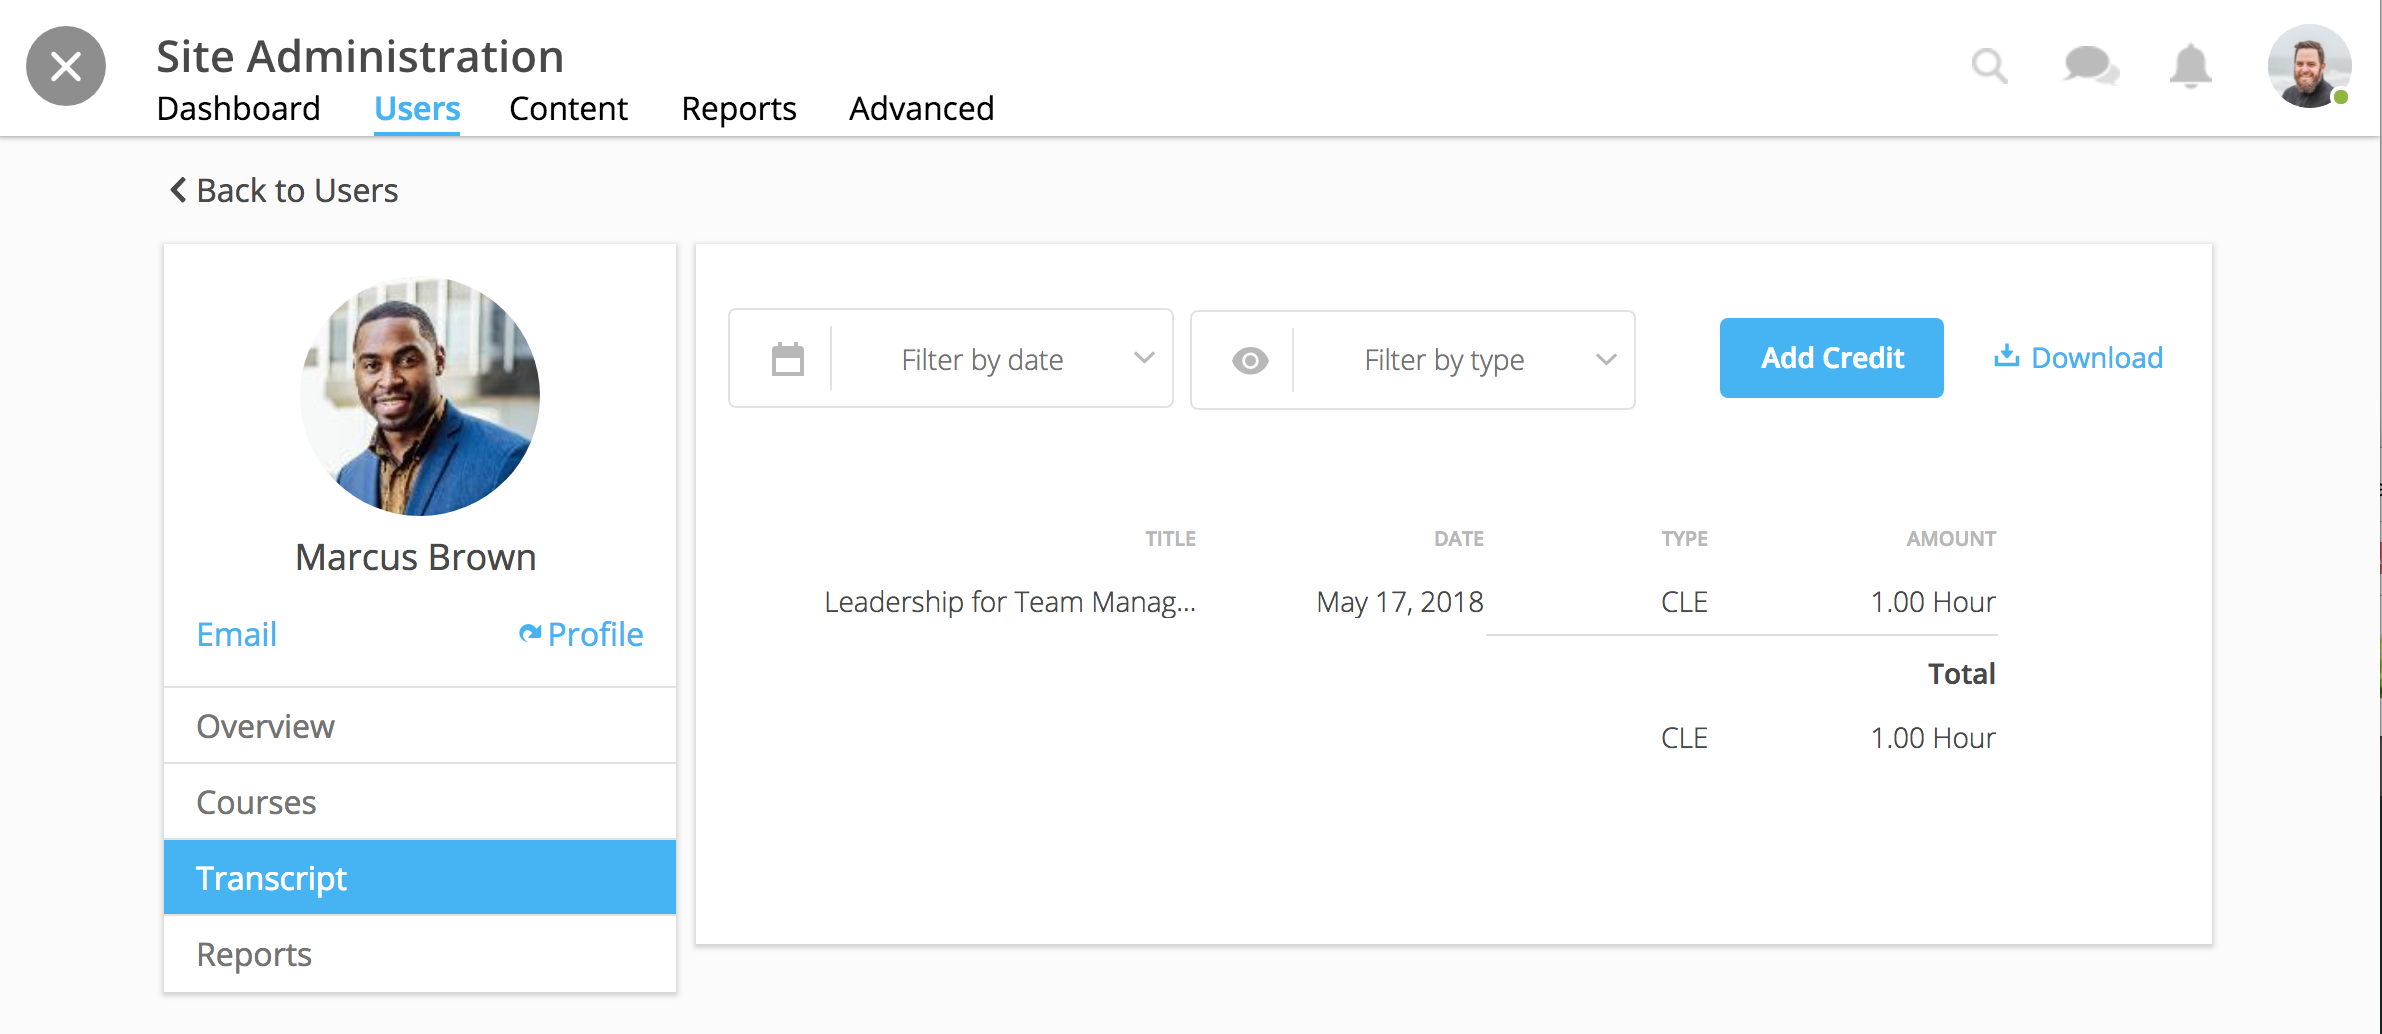
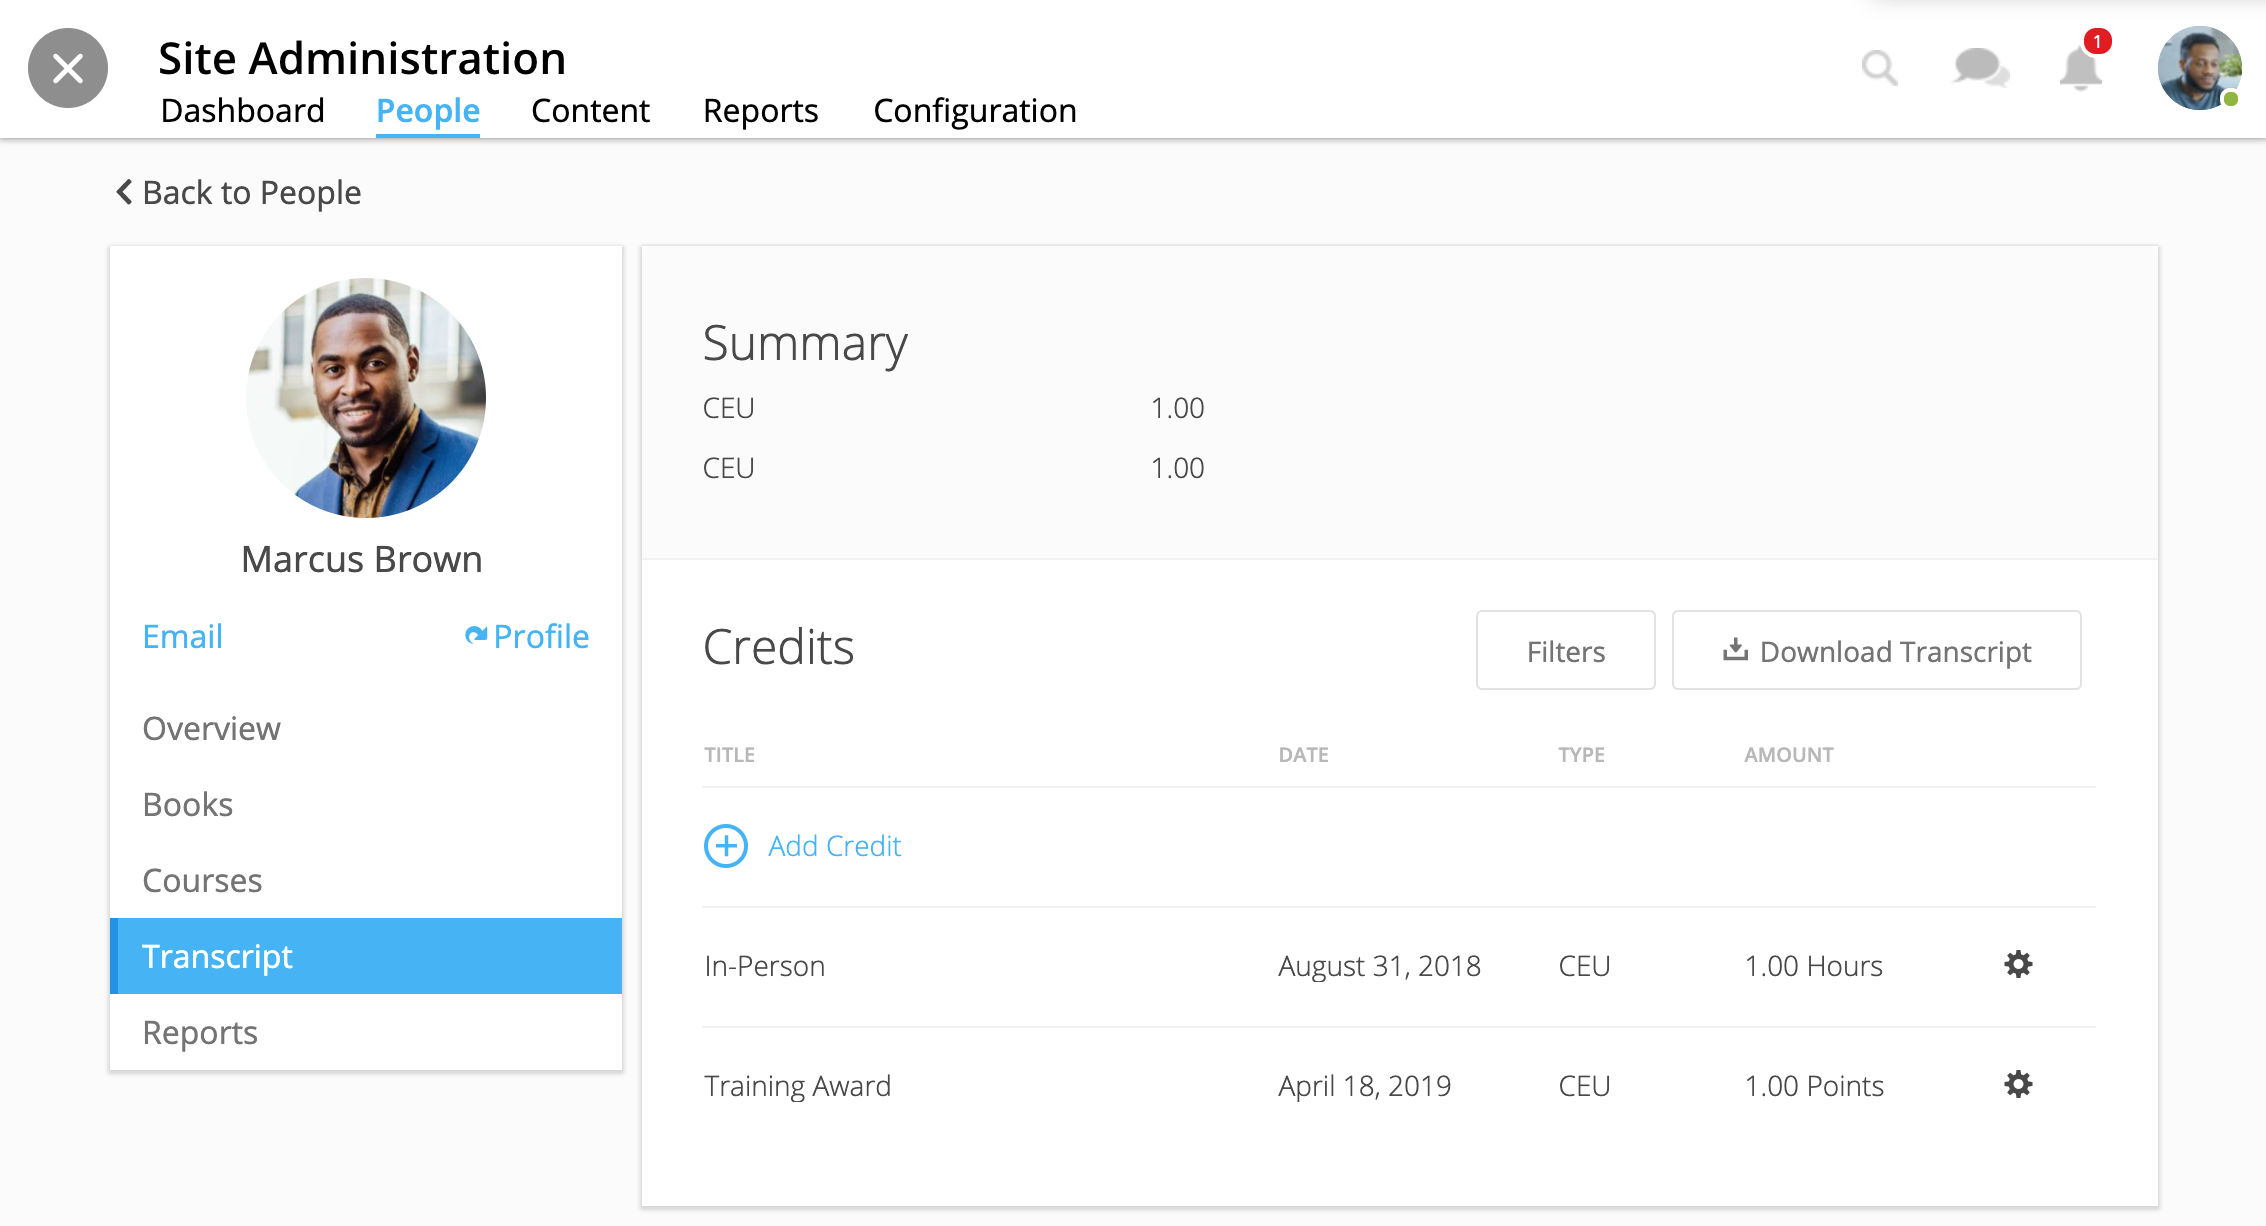
updates

diff --git a/adminguide/sitecredit.rst b/adminguide/sitecredit.rst
@@ -4,16 +4,17 @@ Manage Site Credit
 
 Create credit types to award for course completion. You can also award credit manually for any occasion.
 
-.. note: Learn more about how learners interact with progress, certificates, and credit within the User Guide: https://help.nextthought.com/userguide/Progress_Certs_Credit.html
+.. note:: Learn more about how learners interact with progress, certificates, and credit within the User Guide: https://help.nextthought.com/userguide/Progress_Certs_Credit.html
 
 Create Credit Options
 ---------------------
 
 **To create site-wide course credit options,**
 
-1. Click on the admin tools in the upper right-hand corner.
-2. Click on the “Advanced” tab.
-3. Click on the “Transcripts” tab.
+1. Click on the Admin Panel in the upper right-hand corner of your homepage.
+2. Click on the “Configuration” tab.
+3. Click on the “Certificates, Transcripts, and Course Credit” subtab.
+4. Scroll down to Credit Types.
 
    - **NEW:** Click “Add New Type” to define credit for the site. Type in type and units. This is now selectable for instructors to add to courses.
    - **EDIT:** You can remove a credit type by selecting the “x” button or you can select a current type and edit it.
@@ -25,8 +26,8 @@ Manually Award Credit
 
 **To manually award a learner with credit,**
 
-1. Click on the admin tools in the upper right-hand corner.
-2. Click on the “Users” tab.
+1. Click on the Admin Panel in the upper right-hand corner of your homepage.
+2. Click on the “People” tab.
 3. Select a user.
 4. Click the “Transcript” tab.
 5. Click “Add Credit.”
